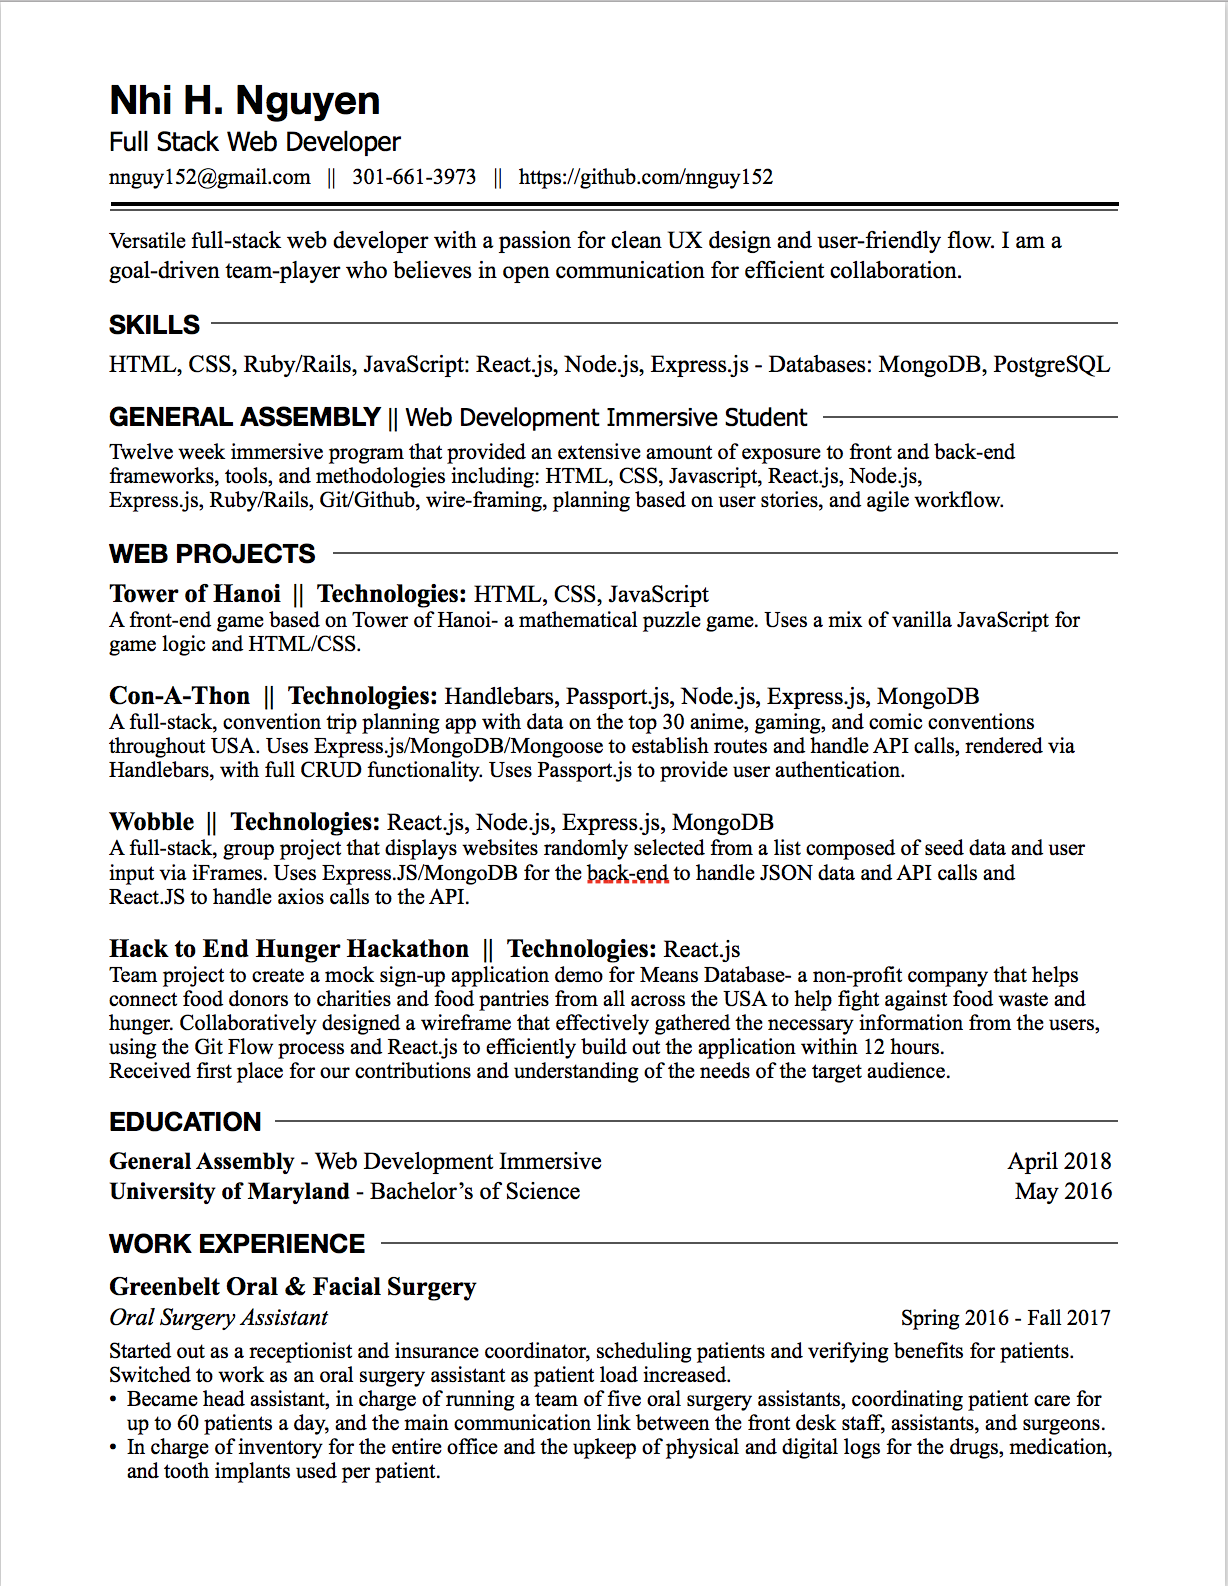
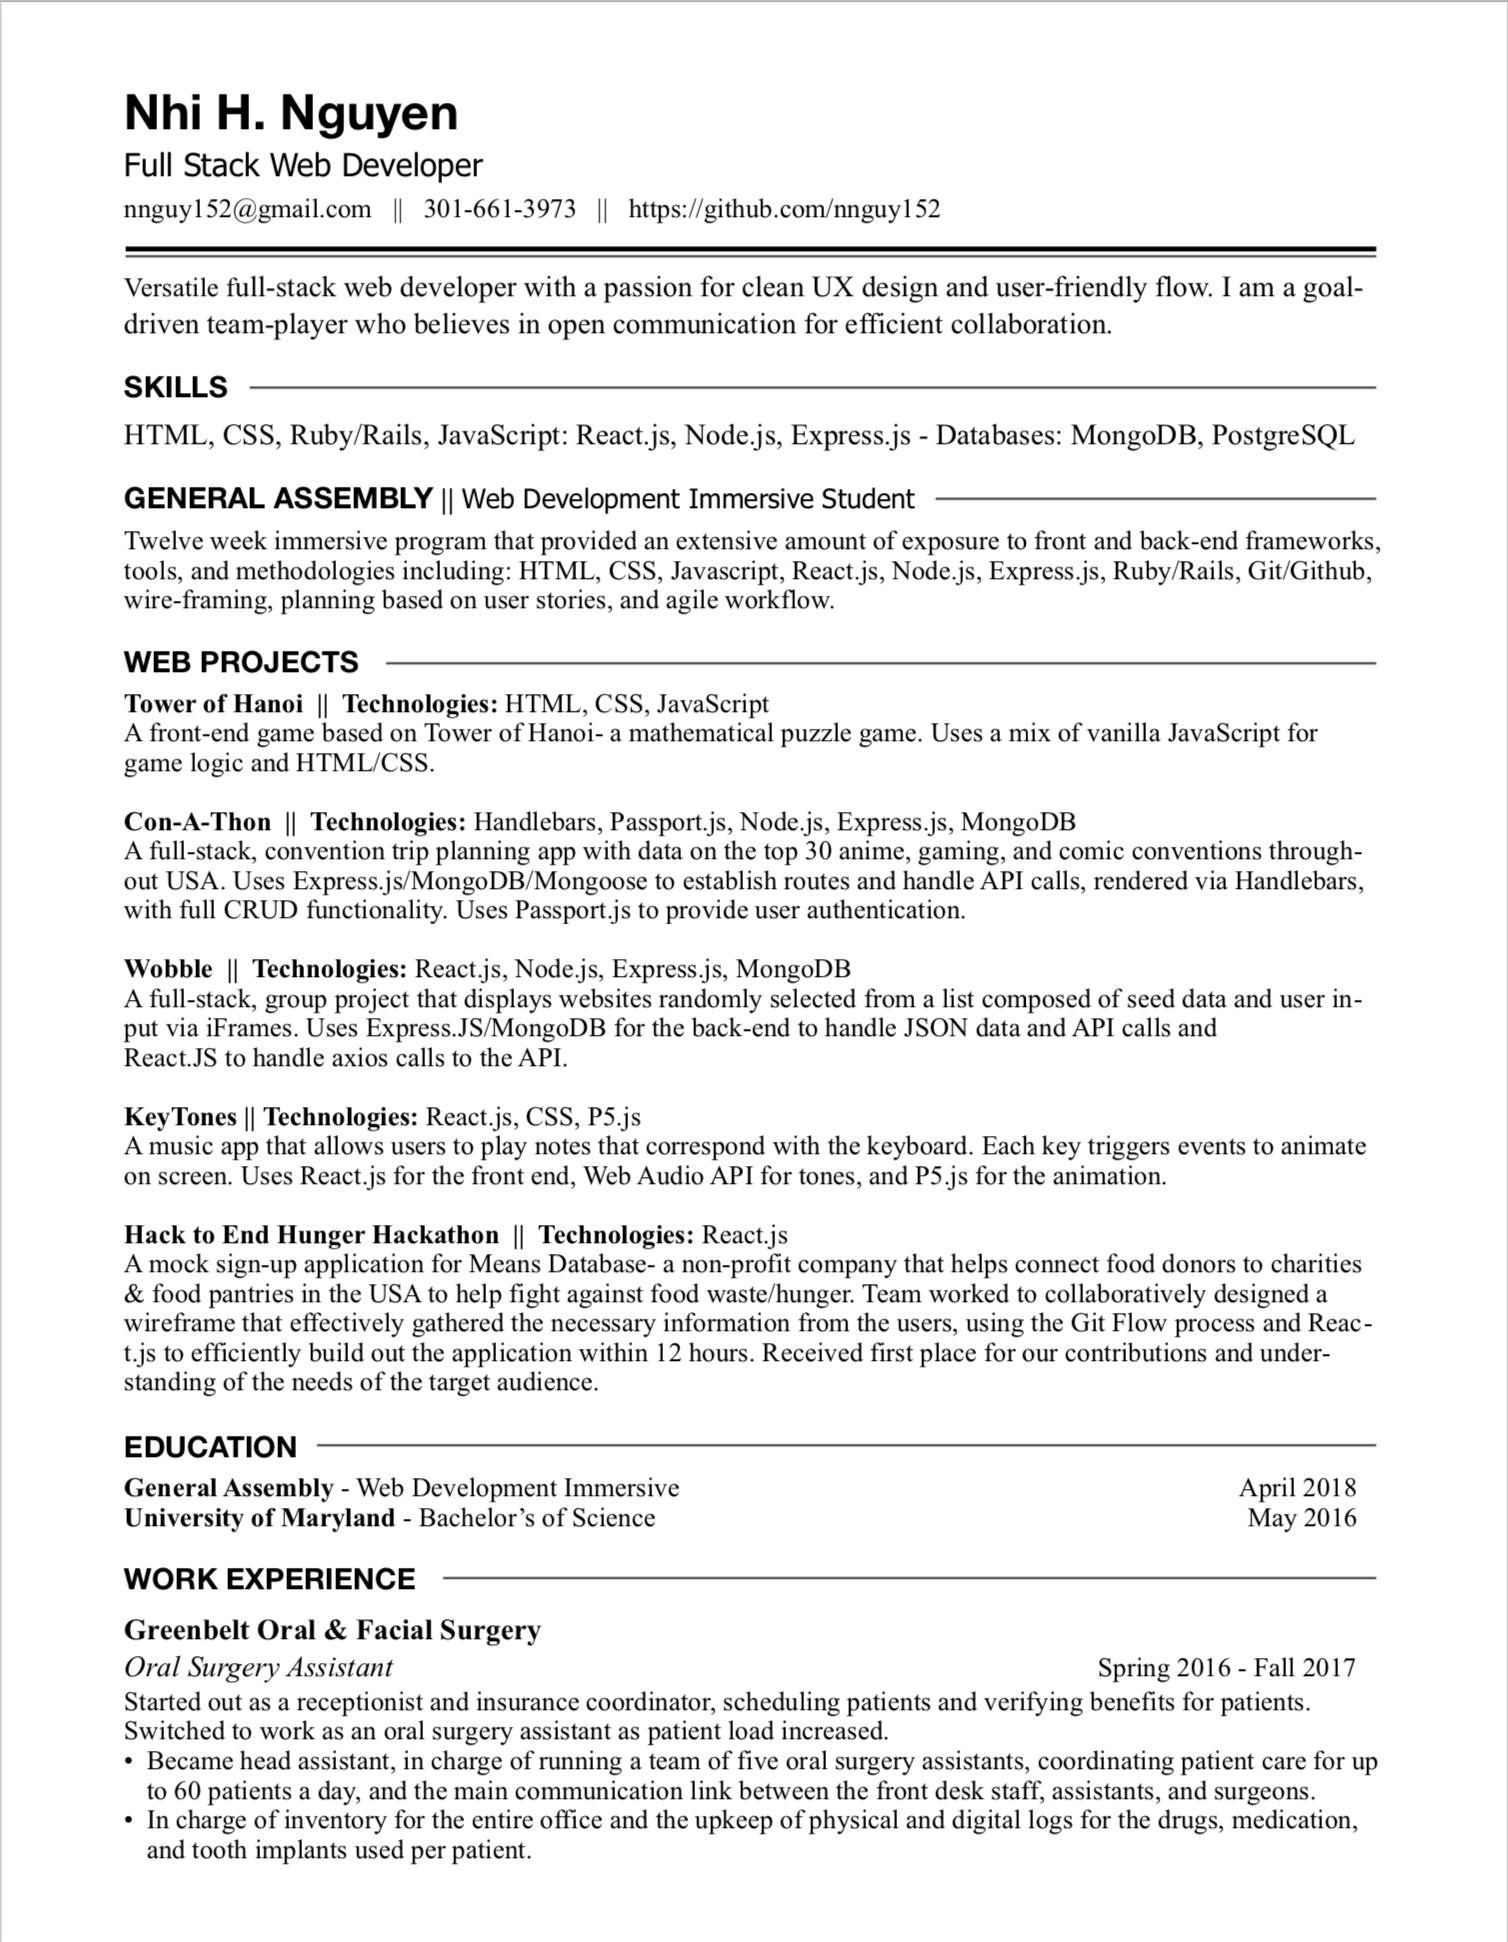
fixed first floating text width

Changed region(s): [[0.0619, 0.0309, 0.9283, 0.9578], [0.9902, 0.0, 1.0, 1.0]]

diff --git a/src/Resume/Resume.css b/src/Resume/Resume.css
@@ -7,41 +7,46 @@
 }
 
 .resume {
-   width: 1000px;
+   display: none;
+}
+.email {
    text-align: center;
 }
-
 @media screen and (max-width: 1100px) {
    .iframe {
       width: 850px;
-      height: 400px;
+      height: 450px;
    }
 }
 
 @media screen and (max-width: 880px) {
    .iframe {
       width: 800px;
-      height: 400px;
+      height: 450px;
    }
 }
 
 @media screen and (max-width: 800px) {
    .iframe {
       width: 600px;
-      height: 400px;
+      height: 500px;
+      margin: auto auto;
    }
 }
 
-@media screen and (max-width: 400px) {
-   .iframe {
-      width: 300px;
+@media screen and (max-width: 420px) {
+   .resume {
+      display: block;
       height: 500px;
-   }
+      width: 375px;
+      margin: 0 2px;
+    }
+    iframe {
+      display: none;
+      
+    }
    .inner {
       width: 300px;
    }
 }
 
-.email {
-   text-align: center;
-}

diff --git a/src/Footer/Footer.css b/src/Footer/Footer.css
@@ -1,8 +1,6 @@
 .footer {
   font-family: 'Orbitron';
   width: 100%;
-  /* padding: 1rem; */
-  /* padding: 20px; */
   background-color: rgb(17, 16, 20);
   text-align: center;
 }
@@ -17,6 +15,10 @@ nav.footer {
 .cMe {
   color: rgb(247, 217, 227);
 }
+.google-images {
+  color: rgb(247, 217, 227);
+  font-size: 10px;
+}
 
 @media screen and (max-width: 1100px) {
   nav.footer { 
@@ -29,9 +31,14 @@ nav.footer {
     padding: 10px 0;
   }
   .footer a {
-    font-size: 15px;
+    font-size: 10px;
+  }
+  .google-images {
+    padding-top: 5px;
+    font-size: 10px;
   }
   .cMe {
+    padding-top: 5px;
     font-size: 12px;
   }
 }

diff --git a/src/Footer/Footer.js b/src/Footer/Footer.js
@@ -4,10 +4,11 @@ import './Footer.css'
 class Footer extends Component {
   render() {
     return (
-      <nav className="footer">
-        <a href="https://github.com/nnguy152">GITHUB</a>
+      <nav className="footer cMe">
+        <a href="https://github.com/nnguy152">GITHUB</a> |
         <a href="https://www.linkedin.com/in/nnguy152/">LINKEDIN</a>
         <p className="cMe">&#169;	Nhi Nguyen</p>
+        <p className="google-images">Images @<a href="https://www.pixelstalk.net/">PixelStalk</a> | <a href="https://imgur.com/">Imgur</a> | <a href="http://getwallpapers.com">GetWallPapers</a></p>
       </nav>
     );
   }

diff --git a/src/Resume/Resume.js b/src/Resume/Resume.js
@@ -1,14 +1,14 @@
 import React, { Component } from 'react';
 import './Resume.css'
 import resume from './Nhi-Nguyen-Resume.pdf'
-// import resume from './NN.png'
+import resume1 from './NN.png'
 
 class Resume extends Component {
    render() {
       return (
          <div className="iframe">
             <iframe className="iframe inner" src={resume} width="100%" height="700" />
-            {/* <img src={resume} alt="resume" className="resume" /> */}
+            <img src={resume1} alt="resume" className="resume" />
          </div>
       );
    }

diff --git a/src/Header/MenuItem.js b/src/Header/MenuItem.js
@@ -4,7 +4,6 @@ class MenuItem extends Component {
    render() {
       return (
          <div className={this.props.classNameText}>
-            <a href='#'><li>Home</li></a>
             <a href='#about'><li>About</li></a>
             <a href='#portfolio'><li>Portfolio</li></a>
             <a href='#last'><li>Contact Me</li></a>

diff --git a/src/App/App.css b/src/App/App.css
@@ -4,7 +4,6 @@
 .image-text {
   background-color:rgba(17, 16, 20, 0.8);
   color: rgb(247, 217, 227);
-  /* color:white; */
   padding: 15px;
   position: absolute;
   top: 45%; 
@@ -49,7 +48,7 @@
   }
   .image-text {
     font-size: 15px;
-    width: 200px;
+    width: 209px;
   }
   .image-text-resume {
     padding: 10px;

diff --git a/src/Header/Header.css b/src/Header/Header.css
@@ -66,7 +66,7 @@ li:hover, .dropbtn, .dropdown-content a:hover {
 
 .dropdown-content a {
   color: rgb(247, 217, 227);
-  padding: 8px 16px;
+  padding: 8px 8px;
   text-decoration: none;
   display: block;
 }

diff --git a/src/index.css b/src/index.css
@@ -1,4 +1,4 @@
-body {
+html, body {
   margin: 0;
   padding: 0;
   font-family: sans-serif;
